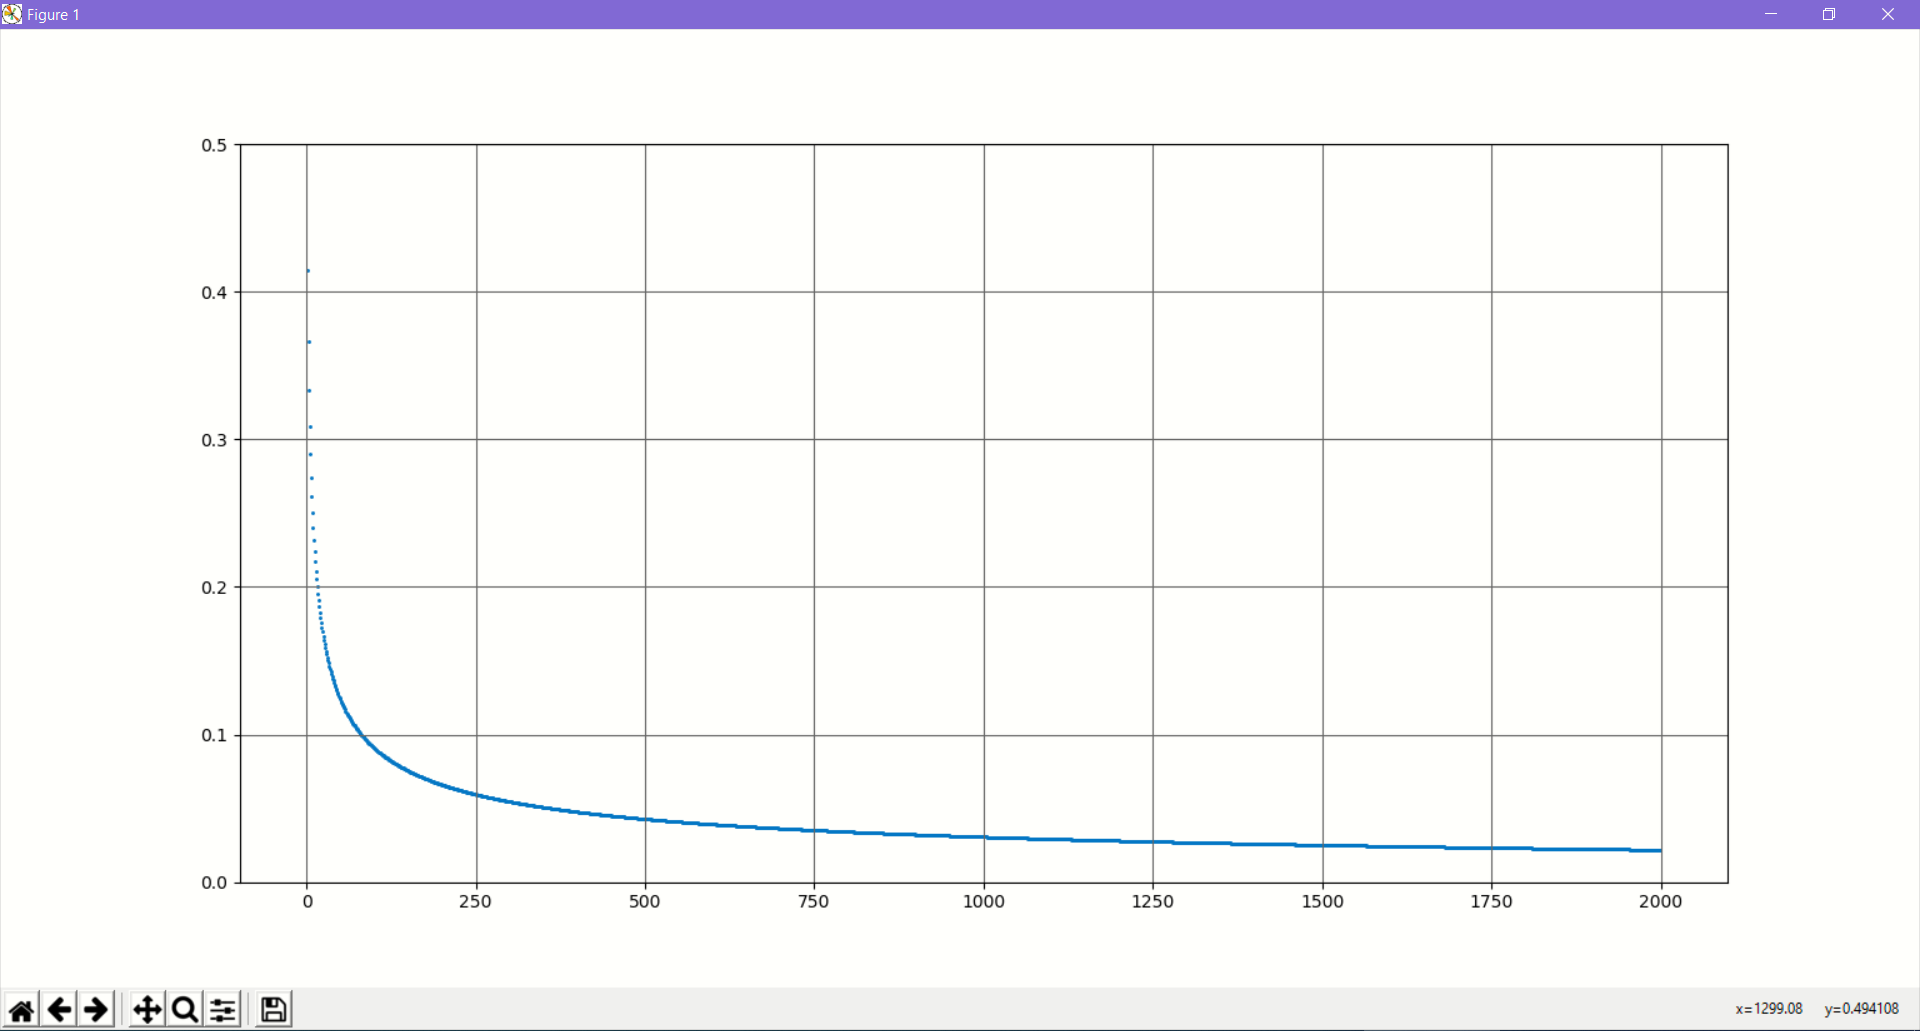
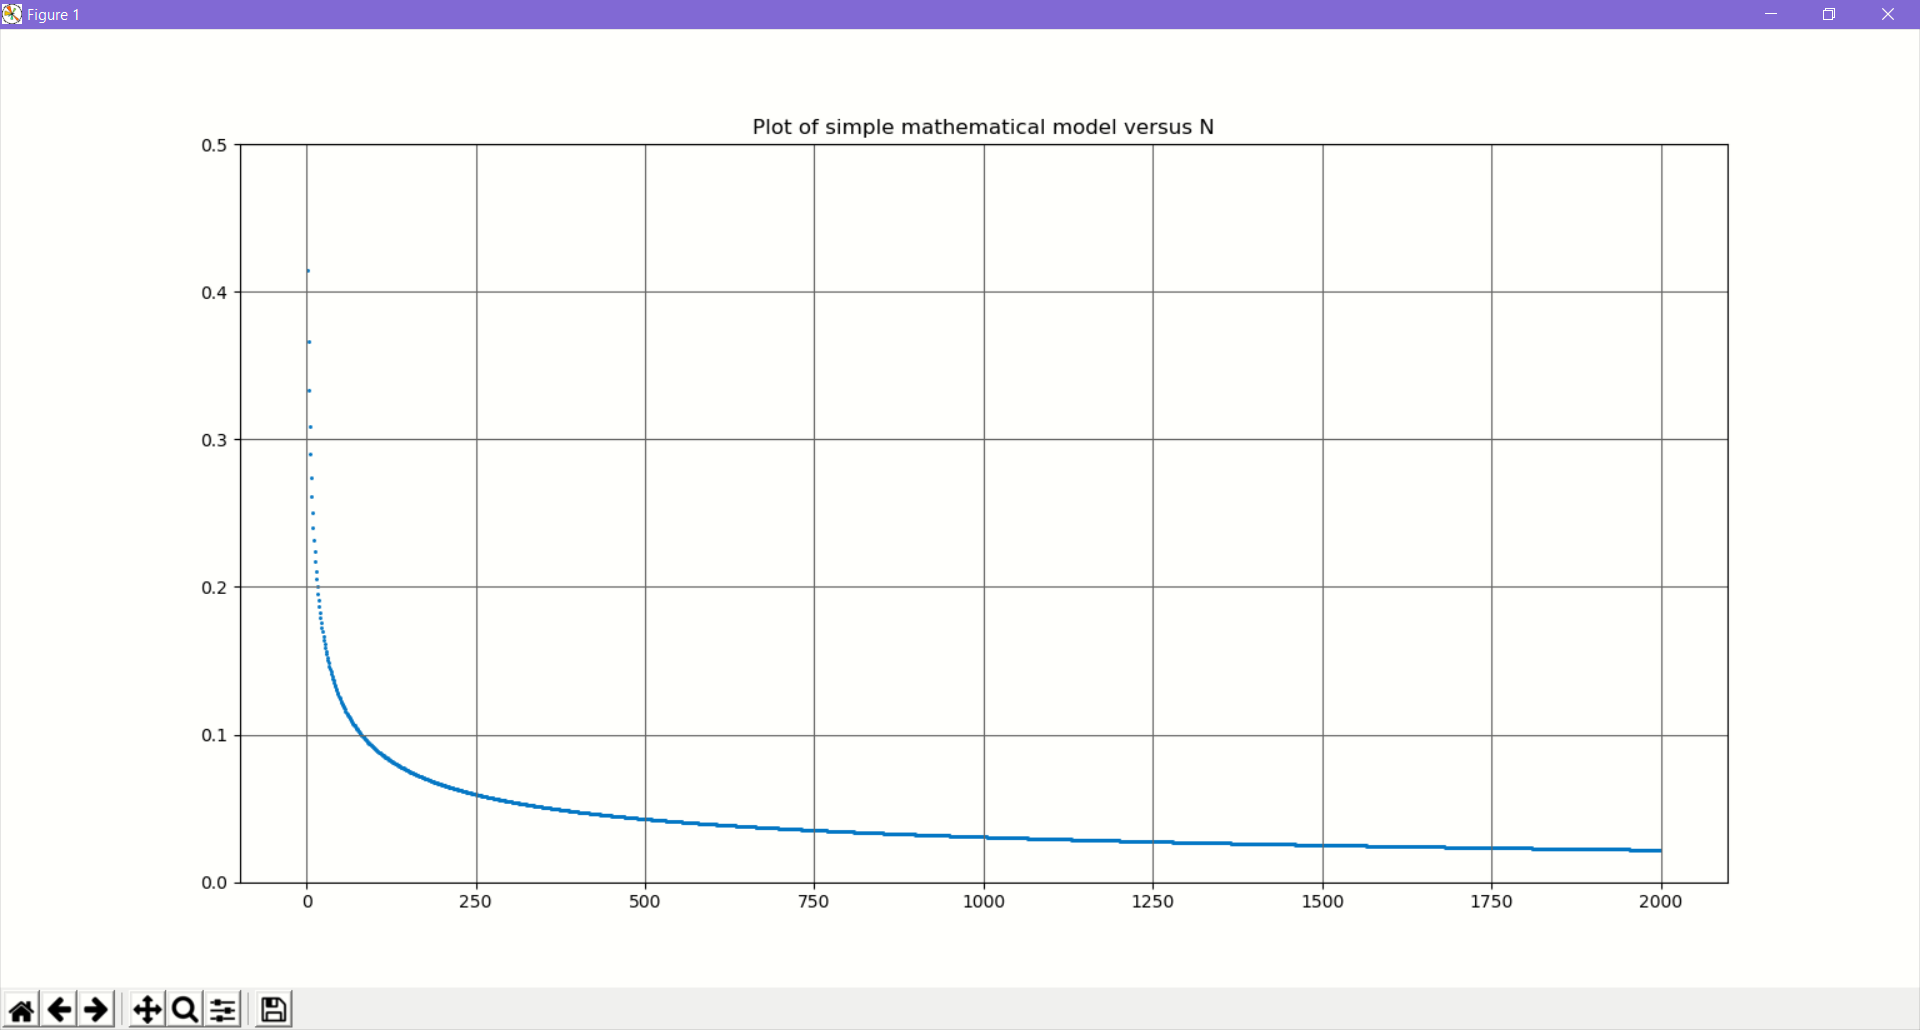
Changed to 2000 iterations

diff --git a/nne_distribution/src/AverageNND.py b/nne_distribution/src/AverageNND.py
@@ -36,6 +36,7 @@ class NearestNeighbourDistance(object):
         return statistics.mean(means_across_iterations)
 
 def plot(points_count:List,  means:List):
+    plt.title("Plot of Monte Carlo simulation versus N")
     plt.ylim([0, 0.5])
     plt.scatter(points_count,means, marker='.', s=5)
     plt.grid(b=True, which='major', color='#666666', linestyle='-')
@@ -47,7 +48,8 @@ def plot(points_count:List,  means:List):
 lst_pointcount=[]
 lst_meandistance=[]
 iterations=50
-for point_count in range(2,1000):
+max_points=2000
+for point_count in range(2,max_points):
     nn=NearestNeighbourDistance(squaresize=1,point_count=point_count,iterations=iterations)
     mean_distance=nn.compute_mean()
     lst_pointcount.append(point_count)

diff --git a/nne_distribution/src/SimpleModelWithNPoints.py b/nne_distribution/src/SimpleModelWithNPoints.py
@@ -5,6 +5,7 @@ import matplotlib.pyplot as plt
 
 
 def plot(points_count:List,  means:List):
+    plt.title("Plot of simple mathematical model versus N")
     plt.ylim([0, 0.5])
     plt.scatter(points_count,means, marker='.', s=5)
     plt.grid(b=True, which='major', color='#666666', linestyle='-')
@@ -18,6 +19,6 @@ for point_count in range(2,2000):
     mean_distance=1/(math.sqrt(point_count)+1)
     lst_pointcount.append(point_count)
     lst_meandistance.append(mean_distance)
-    print("Computed mean NN distance of %f for %d points" % (mean_distance,point_count))
+    print("Calculated NN distance using simple model with value %f for %d points" % (mean_distance,point_count))
 
 plot(lst_pointcount, lst_meandistance)
